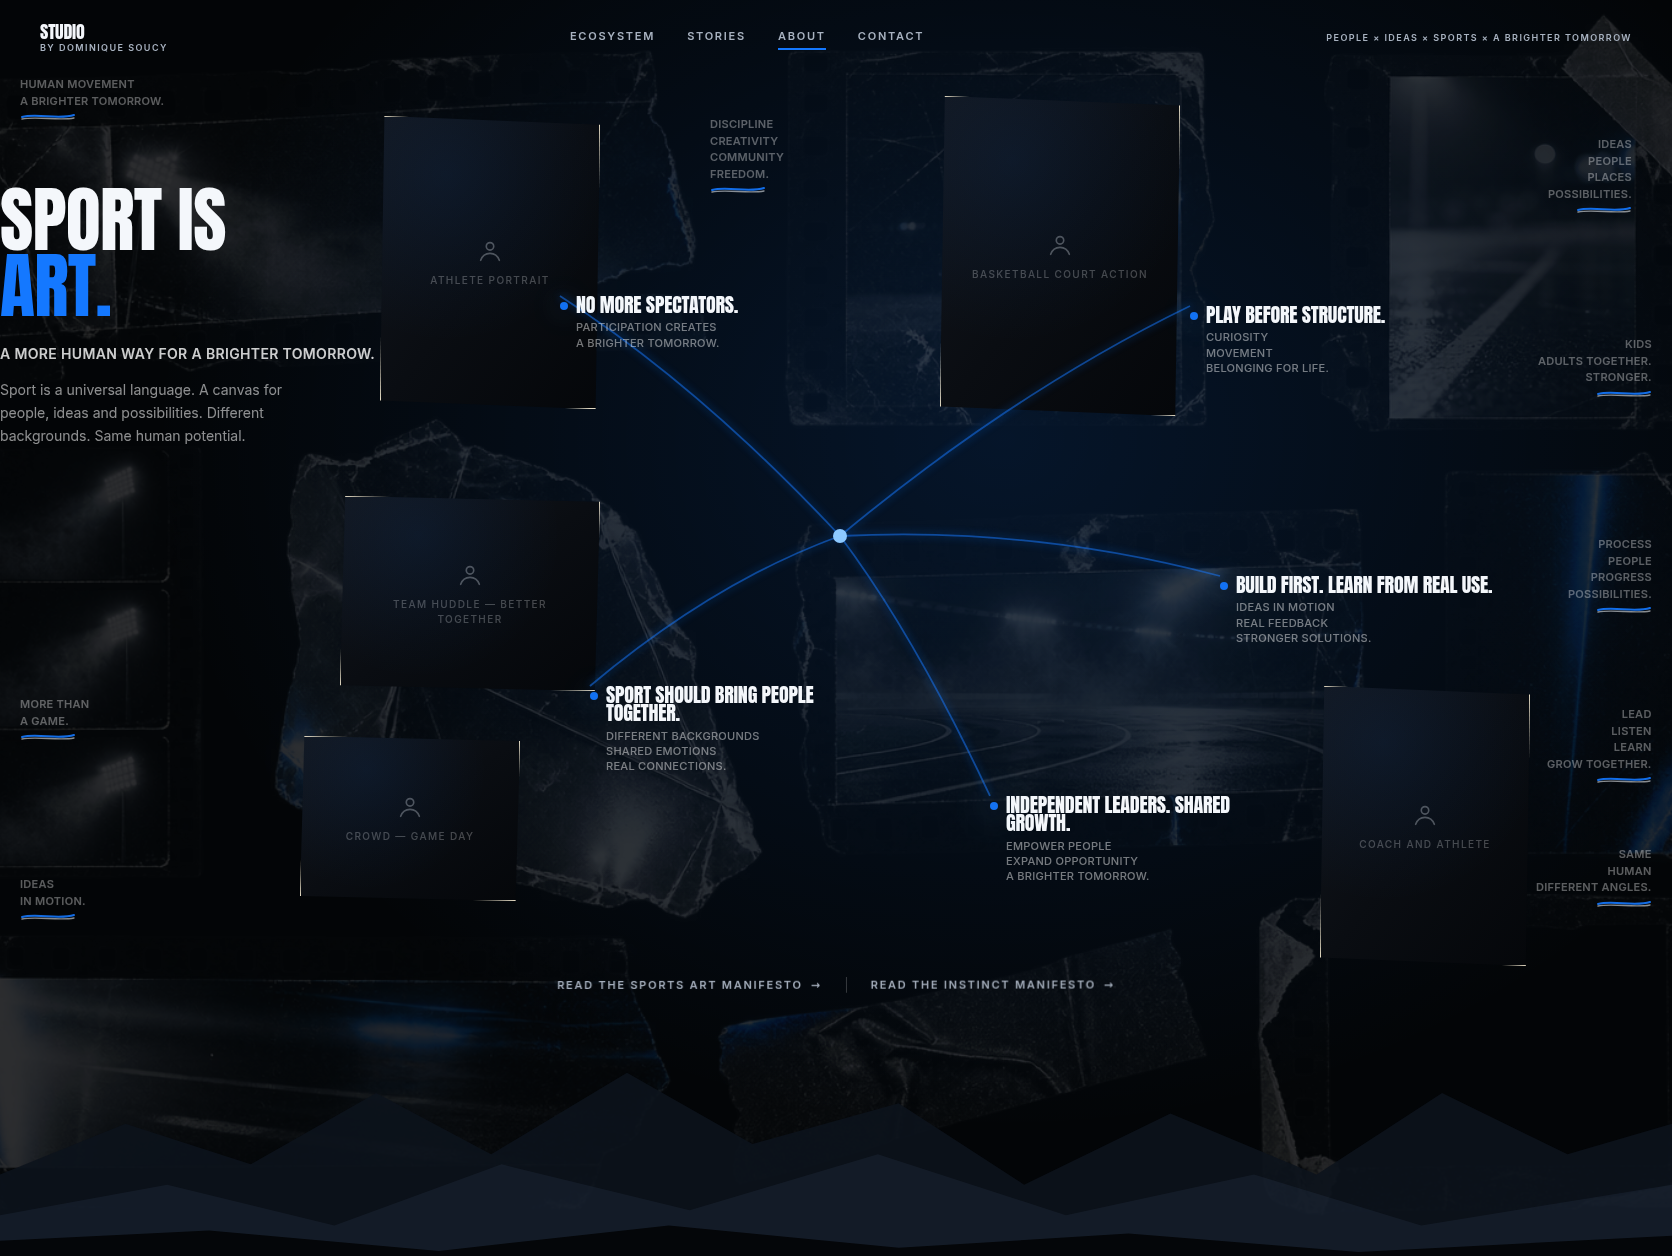
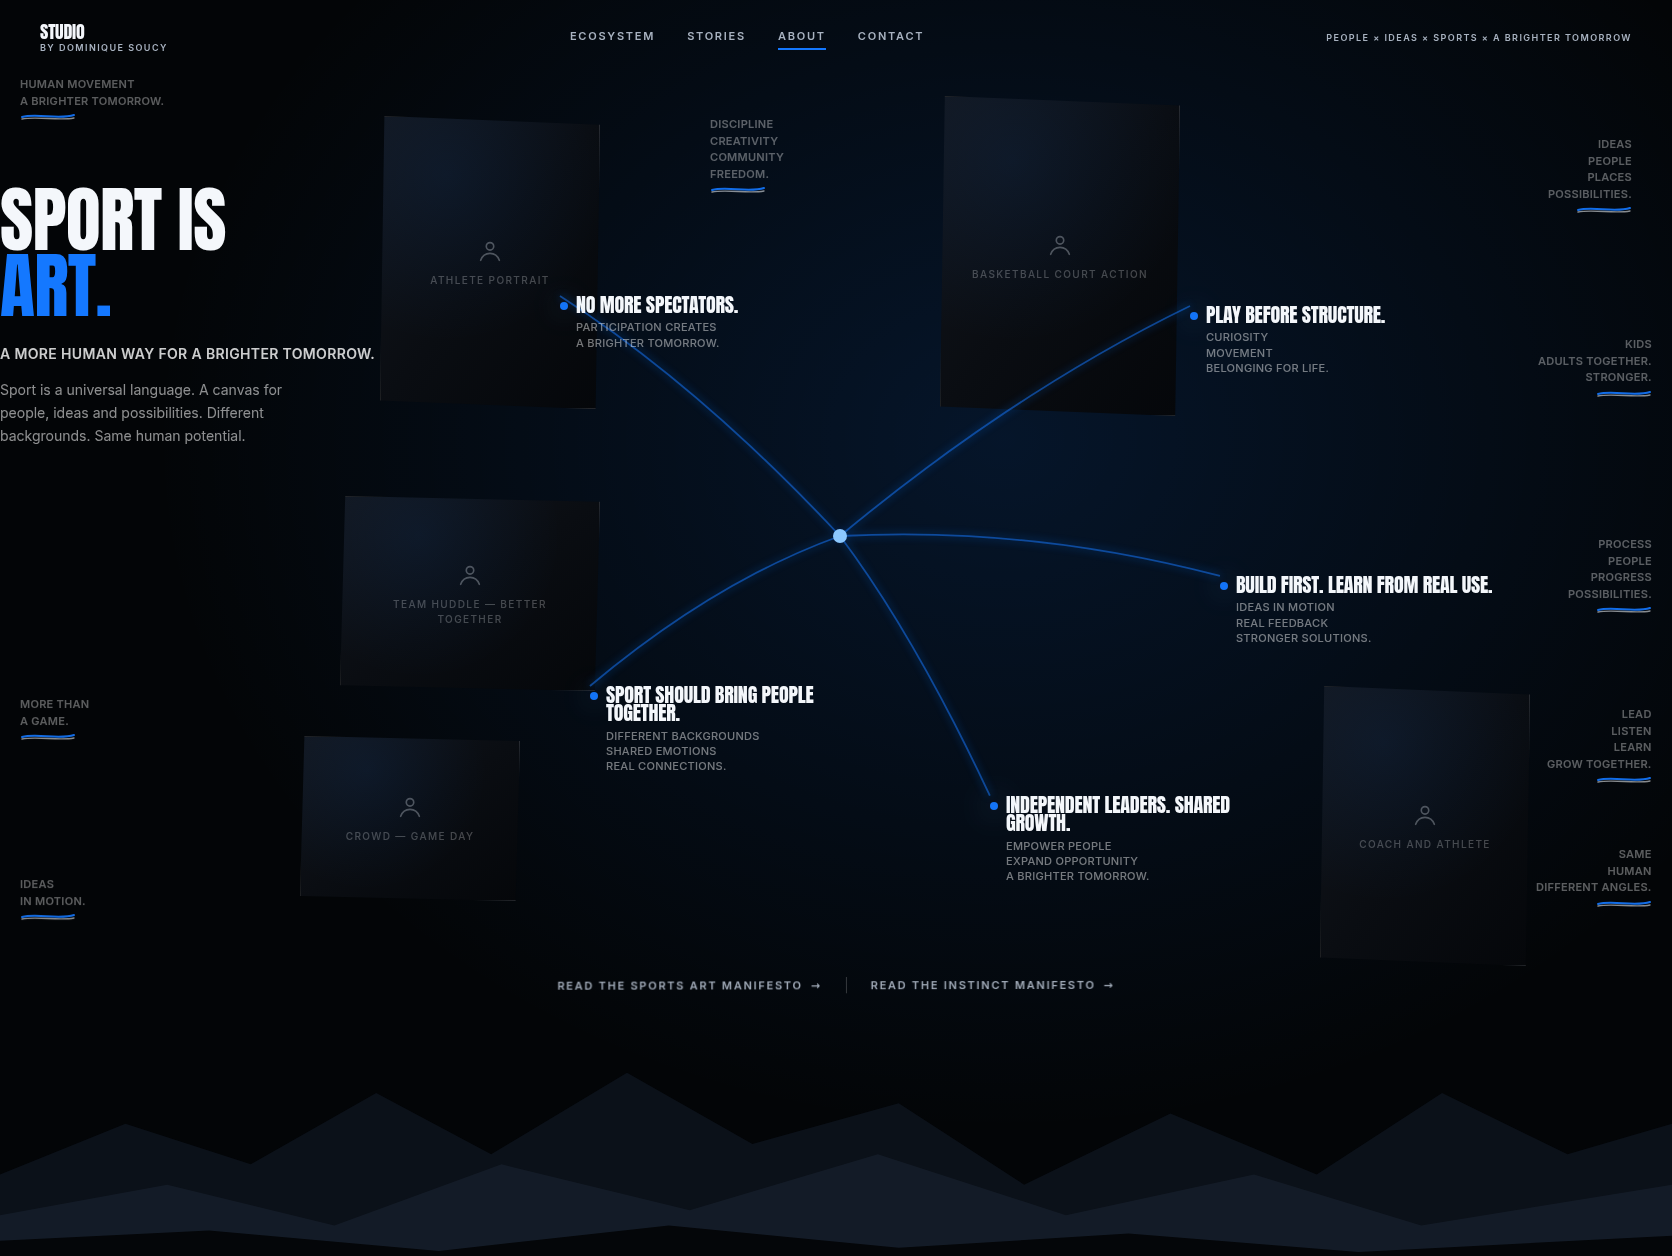
Fix cream border-color bug leaking onto public pages, drop artifact-prone textures
globals.css set a site-wide default border-color as a bare, unlayered CSS
rule (`* { border-color: var(--color-surface-border) }`). Per the CSS
cascade-layers spec, unlayered rules always beat layered ones regardless
of specificity, so this silently overrode every Tailwind border-color
utility (border-white/10, border-white/20, etc.) across the whole site
with the private app's light-mode cream tone (#e2d9c2) instead of the
color each component actually asked for. Wrapping it in @layer base (how
Tailwind's own preflight ships this exact pattern) fixes it without
changing anything for the private app itself.

This is what a user spotted as an "ugly line" crossing the homepage's
mountain silhouette — a plain border-t divider rendering as a solid cream
line instead of a subtle 10%-opacity hairline. Also gives body its own
black background whenever a .studio-public page is mounted (its own
narrower fix, for sub-pixel gaps around clipped/rotated elements), and
drops the film-fragments/electric-signals background textures, which
carry light-toned artifacts that showed similarly under mix-blend-screen.

Claude-Session: https://claude.ai/code/session_01HDQFxNjxgmfLUYHZtwT6ar

diff --git a/src/components/landing/PublicLanding.tsx b/src/components/landing/PublicLanding.tsx
@@ -23,11 +23,6 @@ export function PublicLanding() {
   return (
     <main className="studio-public relative min-h-screen overflow-x-clip">
       <div className="pointer-events-none absolute inset-0 bg-[radial-gradient(ellipse_at_75%_35%,rgba(20,120,255,0.10),transparent_55%)]" />
-      <div
-        aria-hidden="true"
-        className="pointer-events-none absolute inset-0 bg-cover bg-center opacity-[0.12] mix-blend-screen"
-        style={{ backgroundImage: "url(/studio-kit/raster/film-fragments-transparent.png)" }}
-      />
 
       {/* scattered editorial marginalia — text only, no raster cropping */}
       <p className="fragment absolute left-3 top-24 hidden -rotate-3 text-[11px] font-semibold uppercase tracking-wide text-white/35 sm:block" style={{ animationDelay: "620ms" }}>

diff --git a/src/app/globals.css b/src/app/globals.css
@@ -84,8 +84,20 @@
   --font-sans: var(--font-inter);
 }
 
-* {
-  border-color: var(--color-surface-border);
+/*
+  Tailwind's own preflight ships this exact default-border-color reset
+  inside @layer base, specifically so utility classes like border-white/10
+  (which live in @layer utilities) can still override it. Written as a bare
+  unlayered rule, it silently wins over EVERY border-color utility site-wide
+  regardless of specificity, since per the CSS cascade-layers spec unlayered
+  styles always beat layered ones — this was overriding every border-*
+  color utility on the new public pages with this cream, light-app-only
+  tone instead of the color each component actually asked for.
+*/
+@layer base {
+  * {
+    border-color: var(--color-surface-border);
+  }
 }
 
 html,

diff --git a/src/app/studio-public.css b/src/app/studio-public.css
@@ -26,6 +26,19 @@
   font-family: var(--font-inter), system-ui, sans-serif;
 }
 
+/*
+  The authenticated app's own body background is a warm cream
+  (--color-canvas, #f5f1e6 — its light-mode canvas). .studio-public only
+  paints black on <main>, so any sub-pixel rounding gap around a clipped,
+  rotated, or aspect-ratio-boxed element on a public page let that cream
+  peek through as a visible hairline. Flipping body's own background
+  whenever a .studio-public page is mounted removes the mismatch at the
+  source instead of chasing individual gaps.
+*/
+body:has(.studio-public) {
+  background: var(--studio-black);
+}
+
 .font-studio-display {
   font-family: var(--font-anton), "Arial Narrow", sans-serif;
   text-transform: uppercase;

diff --git a/src/components/landing/PurinstinctPortalView.tsx b/src/components/landing/PurinstinctPortalView.tsx
@@ -40,11 +40,6 @@ export function PurinstinctPortalView() {
   return (
     <main className="studio-public relative min-h-screen overflow-x-clip">
       <div className="pointer-events-none absolute inset-0 bg-[radial-gradient(ellipse_at_50%_35%,rgba(20,120,255,0.16),transparent_60%)]" />
-      <div
-        aria-hidden="true"
-        className="pointer-events-none absolute inset-0 bg-cover bg-center opacity-[0.14] mix-blend-screen"
-        style={{ backgroundImage: "url(/studio-kit/raster/electric-signals-transparent.png)" }}
-      />
 
       {/* portal chrome — this page reads as an overlay opened from the
           ecosystem map, not a top-level nav destination */}

diff --git a/src/components/landing/HowItWorksView.tsx b/src/components/landing/HowItWorksView.tsx
@@ -35,11 +35,6 @@ export function HowItWorksView() {
   return (
     <main className="studio-public relative min-h-screen overflow-x-clip">
       <div className="pointer-events-none absolute inset-0 bg-[radial-gradient(ellipse_at_75%_20%,rgba(20,120,255,0.14),transparent_55%)]" />
-      <div
-        aria-hidden="true"
-        className="pointer-events-none absolute inset-0 bg-cover bg-center opacity-[0.14] mix-blend-screen"
-        style={{ backgroundImage: "url(/studio-kit/raster/film-fragments-transparent.png)" }}
-      />
 
       <PublicNav active="/how-it-works" />
 

diff --git a/src/components/landing/PhilosophyView.tsx b/src/components/landing/PhilosophyView.tsx
@@ -49,11 +49,6 @@ export function PhilosophyView() {
   return (
     <main className="studio-public relative min-h-screen overflow-x-clip">
       <div className="pointer-events-none absolute inset-0 bg-[radial-gradient(ellipse_at_60%_35%,rgba(20,120,255,0.14),transparent_60%)]" />
-      <div
-        aria-hidden="true"
-        className="pointer-events-none absolute inset-0 bg-cover bg-center opacity-[0.16] mix-blend-screen"
-        style={{ backgroundImage: "url(/studio-kit/raster/film-fragments-transparent.png)" }}
-      />
 
       <PublicNav active="/philosophy" />
 

diff --git a/src/components/landing/EcosystemView.tsx b/src/components/landing/EcosystemView.tsx
@@ -48,11 +48,6 @@ export function EcosystemView() {
   return (
     <main className="studio-public relative min-h-screen overflow-x-clip">
       <div className="pointer-events-none absolute inset-0 bg-[radial-gradient(ellipse_at_55%_45%,rgba(20,120,255,0.14),transparent_60%)]" />
-      <div
-        aria-hidden="true"
-        className="pointer-events-none absolute inset-0 bg-cover bg-center opacity-[0.16] mix-blend-screen"
-        style={{ backgroundImage: "url(/studio-kit/raster/film-fragments-transparent.png)" }}
-      />
 
       <PublicNav active="/ecosystem" />
 
